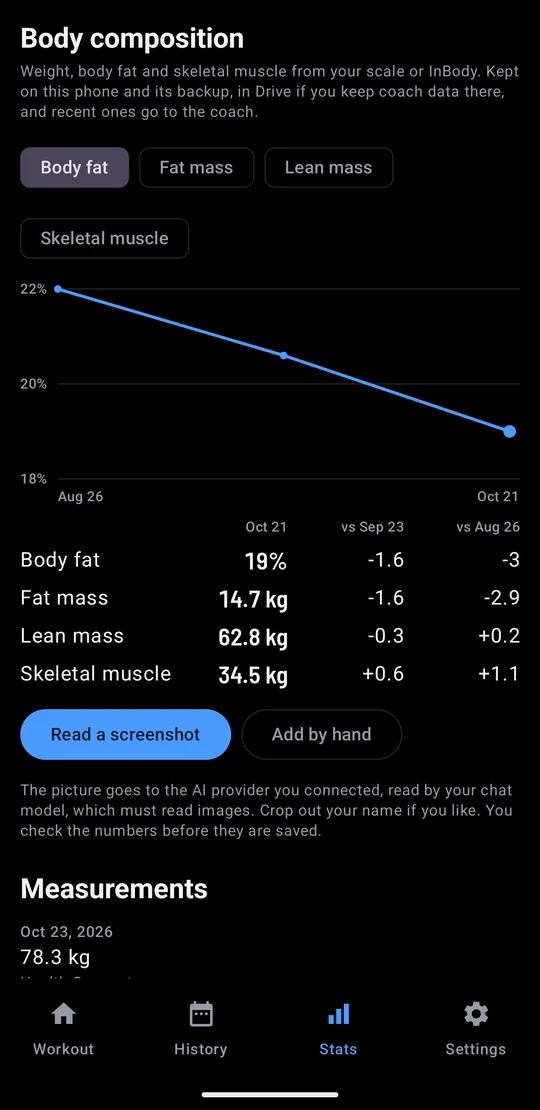
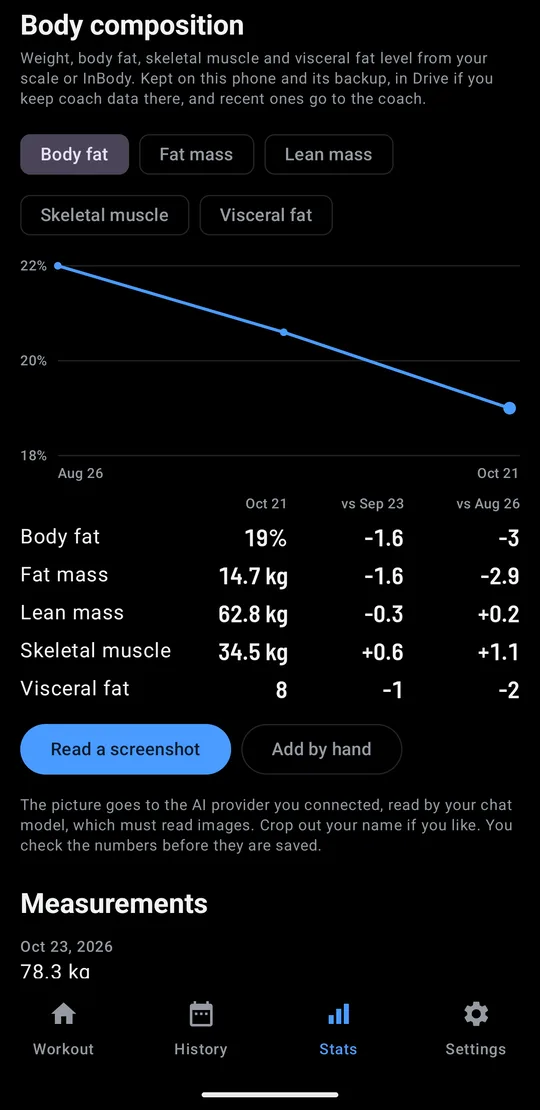
Add an InBody section: attach a result, follow each scan, calories from lean mass

diff --git a/ko/index.html b/ko/index.html
@@ -142,16 +142,30 @@
     <section class="block band" id="stats">
       <div class="wrap">
         <h2>운동량, 체중, 최고 기록을 한눈에 봐요</h2>
-        <p class="lead">최근 12주의 운동 횟수, 시간, 볼륨을 주별로 보고, 체중은 하루하루 출렁임을 고른 추세로 봐요. 코치를 켜면
-          인바디나 체중계 스크린샷에서 체성분도 읽어요.</p>
-        <ul class="shots">
+        <p class="lead">최근 12주의 운동 횟수, 시간, 볼륨을 주별로 보고, 체중은 하루하루 출렁임을 고른 추세로 봐요.</p>
+        <ul class="shots two">
           <li><figure><div class="phone"><img src="../images/stats-ko.webp" width="540" height="1110" alt="통계 탭: 최근 12주 주별 운동 횟수 막대그래프, 체중 추세 78.2kg와 최근 4주 동안 주당 -0.3kg, 매일 기록 위로 그린 추세선" loading="lazy"></div>
             <figcaption>주별 운동과 체중 추세를 봐요</figcaption></figure></li>
-          <li><figure><div class="phone"><img src="../images/body-ko.webp" width="540" height="1110" alt="체성분: 세 번의 측정에서 체지방률이 22%에서 19%로 내려간 그래프와, 10월 21일 체지방률, 체지방량, 제지방량, 골격근량을 9월 23일, 8월 26일과 비교한 표" loading="lazy"></div>
-            <figcaption>체성분은 측정할 때마다 비교해요</figcaption></figure></li>
           <li><figure><div class="phone"><img src="../images/records-ko.webp" width="540" height="1110" alt="스쿼트 (바벨) 운동 상세: 최고 무게 125kg, 예상 1RM 145.8kg, 8월 14일부터 꾸준히 오른 기록 추이 그래프" loading="lazy"></div>
             <figcaption>운동마다 최고 기록을 남기고, 새 기록은 기록 탭에도 표시해요</figcaption></figure></li>
         </ul>
+      </div>
+    </section>
+
+    <section class="block soft" id="inbody">
+      <div class="wrap">
+        <h2>인바디 결과를 첨부하고 변화를 따라가요</h2>
+        <p class="lead">인바디나 스마트 체중계 결과 스크린샷을 첨부하면 코치가 체중, 체지방률, 골격근량, 내장지방 레벨을 읽어요.
+          저장하기 전에 숫자를 직접 확인해요. 측정할 때마다 지난번, 처음과 비교하고, 제지방량으로 하루 칼로리 목표를 계산해요.</p>
+        <ul class="shots">
+          <li><figure><div class="phone"><img src="../images/inbody-read-ko.webp" width="540" height="1110" alt="첨부한 스크린샷에서 읽은 숫자 확인 창: 2026년 10월 23일, 체중 77.4kg, 체지방률 18.6%, 골격근량 34.7kg, 내장지방 레벨 8과 취소, 저장 버튼" loading="lazy"></div>
+            <figcaption>스크린샷을 첨부하고, 읽은 숫자를 확인해요</figcaption></figure></li>
+          <li><figure><div class="phone"><img src="../images/body-ko.webp" width="540" height="1110" alt="체성분: 세 번의 측정에서 체지방률이 22%에서 19%로 내려간 그래프와, 10월 21일 체지방률, 체지방량, 제지방량, 골격근량, 내장지방을 9월 23일, 8월 26일과 비교한 표" loading="lazy"></div>
+            <figcaption>측정할 때마다 지난번, 처음과 비교해요</figcaption></figure></li>
+          <li><figure><div class="phone"><img src="../images/calories-ko.webp" width="540" height="1110" alt="코치 설정의 내 정보: 10월 23일에 잰 체중 78.3kg, 키 178cm, 성별, 생년월일, 목표와, 최근 체지방 측정의 제지방량으로 계산한 하루 칼로리 목표 약 2,460kcal, 유지 칼로리 약 2,680kcal" loading="lazy"></div>
+            <figcaption>칼로리는 인바디가 기초대사량을 구하는 방식대로 제지방량에서 계산해요</figcaption></figure></li>
+        </ul>
+        <p class="note">코치 기능이에요. 코치를 켜면 체성분을 기록할 수 있어요. 스크린샷은 내 키로 연결한 모델이 읽고, 숫자를 직접 입력해도 돼요.</p>
       </div>
     </section>
 

diff --git a/index.html b/index.html
@@ -142,16 +142,30 @@
     <section class="block band" id="stats">
       <div class="wrap">
         <h2>Your weeks, weight and records</h2>
-        <p class="lead">Workouts, time or volume for each of the last 12 weeks, and a weight trend that evens out day-to-day swings.
-          With the coach on, it reads body composition from an InBody or scale screenshot.</p>
-        <ul class="shots">
+        <p class="lead">Workouts, time or volume for each of the last 12 weeks, and a weight trend that evens out day-to-day swings.</p>
+        <ul class="shots two">
           <li><figure><div class="phone"><img src="images/stats-en.webp" width="540" height="1110" alt="The Stats tab: workouts in each of the last 12 weeks as bars, then a weight trend of 78.2 kg, down 0.3 kg a week over the last 4 weeks, drawn over the daily readings" loading="lazy"></div>
             <figcaption>Each week, and your weight trend</figcaption></figure></li>
-          <li><figure><div class="phone"><img src="images/body-en.webp" width="540" height="1110" alt="Body composition: body fat falling from 22% to 19% over three scans, and a table comparing body fat, fat mass, lean mass and skeletal muscle on Oct 21 with Sep 23 and Aug 26" loading="lazy"></div>
-            <figcaption>Body composition, compared scan to scan</figcaption></figure></li>
           <li><figure><div class="phone"><img src="images/records-en.webp" width="540" height="1110" alt="Squat (Barbell): heaviest set 125 kg and estimated 1RM 145.8 kg, with a progress chart rising steadily since Aug 14" loading="lazy"></div>
             <figcaption>Records for each exercise, with new ones marked in History</figcaption></figure></li>
         </ul>
+      </div>
+    </section>
+
+    <section class="block soft" id="inbody">
+      <div class="wrap">
+        <h2>Attach your InBody, follow every scan</h2>
+        <p class="lead">Attach a screenshot of an InBody or smart scale result and the coach reads weight, body fat, skeletal muscle and visceral fat.
+          You check the numbers before they're saved. Each scan is compared with the one before and the first, and your lean mass sets the calorie target.</p>
+        <ul class="shots">
+          <li><figure><div class="phone"><img src="images/inbody-read-en.webp" width="540" height="1110" alt="Check the numbers, read from an attached screenshot: Oct 23, 2026, weight 77.4 kg, body fat 18.6%, skeletal muscle 34.7 kg and visceral fat level 8, with Cancel and Save" loading="lazy"></div>
+            <figcaption>Attach a screenshot, then check what it read</figcaption></figure></li>
+          <li><figure><div class="phone"><img src="images/body-en.webp" width="540" height="1110" alt="Body composition: body fat falling from 22% to 19% over three scans, and a table comparing body fat, fat mass, lean mass, skeletal muscle and visceral fat on Oct 21 with Sep 23 and Aug 26" loading="lazy"></div>
+            <figcaption>Each scan against the one before and the first</figcaption></figure></li>
+          <li><figure><div class="phone"><img src="images/calories-en.webp" width="540" height="1110" alt="Coach settings, About you: bodyweight 78.3 kg measured on Oct 23, height 178 cm, sex, birth date and goal, then a daily calorie target of about 2,460 kcal, maintenance about 2,680 kcal, worked out from the lean mass in the latest body fat reading" loading="lazy"></div>
+            <figcaption>Calories from your lean mass, the way InBody works out BMR</figcaption></figure></li>
+        </ul>
+        <p class="note">Part of the coach: turn it on to log body composition. Screenshots are read by the model you connect with your own key, and you can type the numbers in instead.</p>
       </div>
     </section>
 

diff --git a/assets/style.css b/assets/style.css
@@ -187,6 +187,9 @@ section.soft { background: var(--bg-soft); }
 .wide-shot { margin-top: 36px; border-radius: 22px; overflow: hidden; background: #000; border: 1px solid var(--line); box-shadow: var(--shadow); }
 
 .shots { list-style: none; margin: 8px 0 0; padding: 0; display: grid; grid-template-columns: repeat(3, minmax(0, 1fr)); gap: 32px; }
+@media (min-width: 861px) {
+  .shots.two { grid-template-columns: repeat(2, minmax(0, 280px)); justify-content: center; gap: 64px; }
+}
 .shots figure { margin: 0; }
 .shots .phone { width: min(280px, 100%); }
 .shots figcaption { margin: 16px auto 0; max-width: 280px; text-align: center; color: var(--muted); font-size: 16px; }
